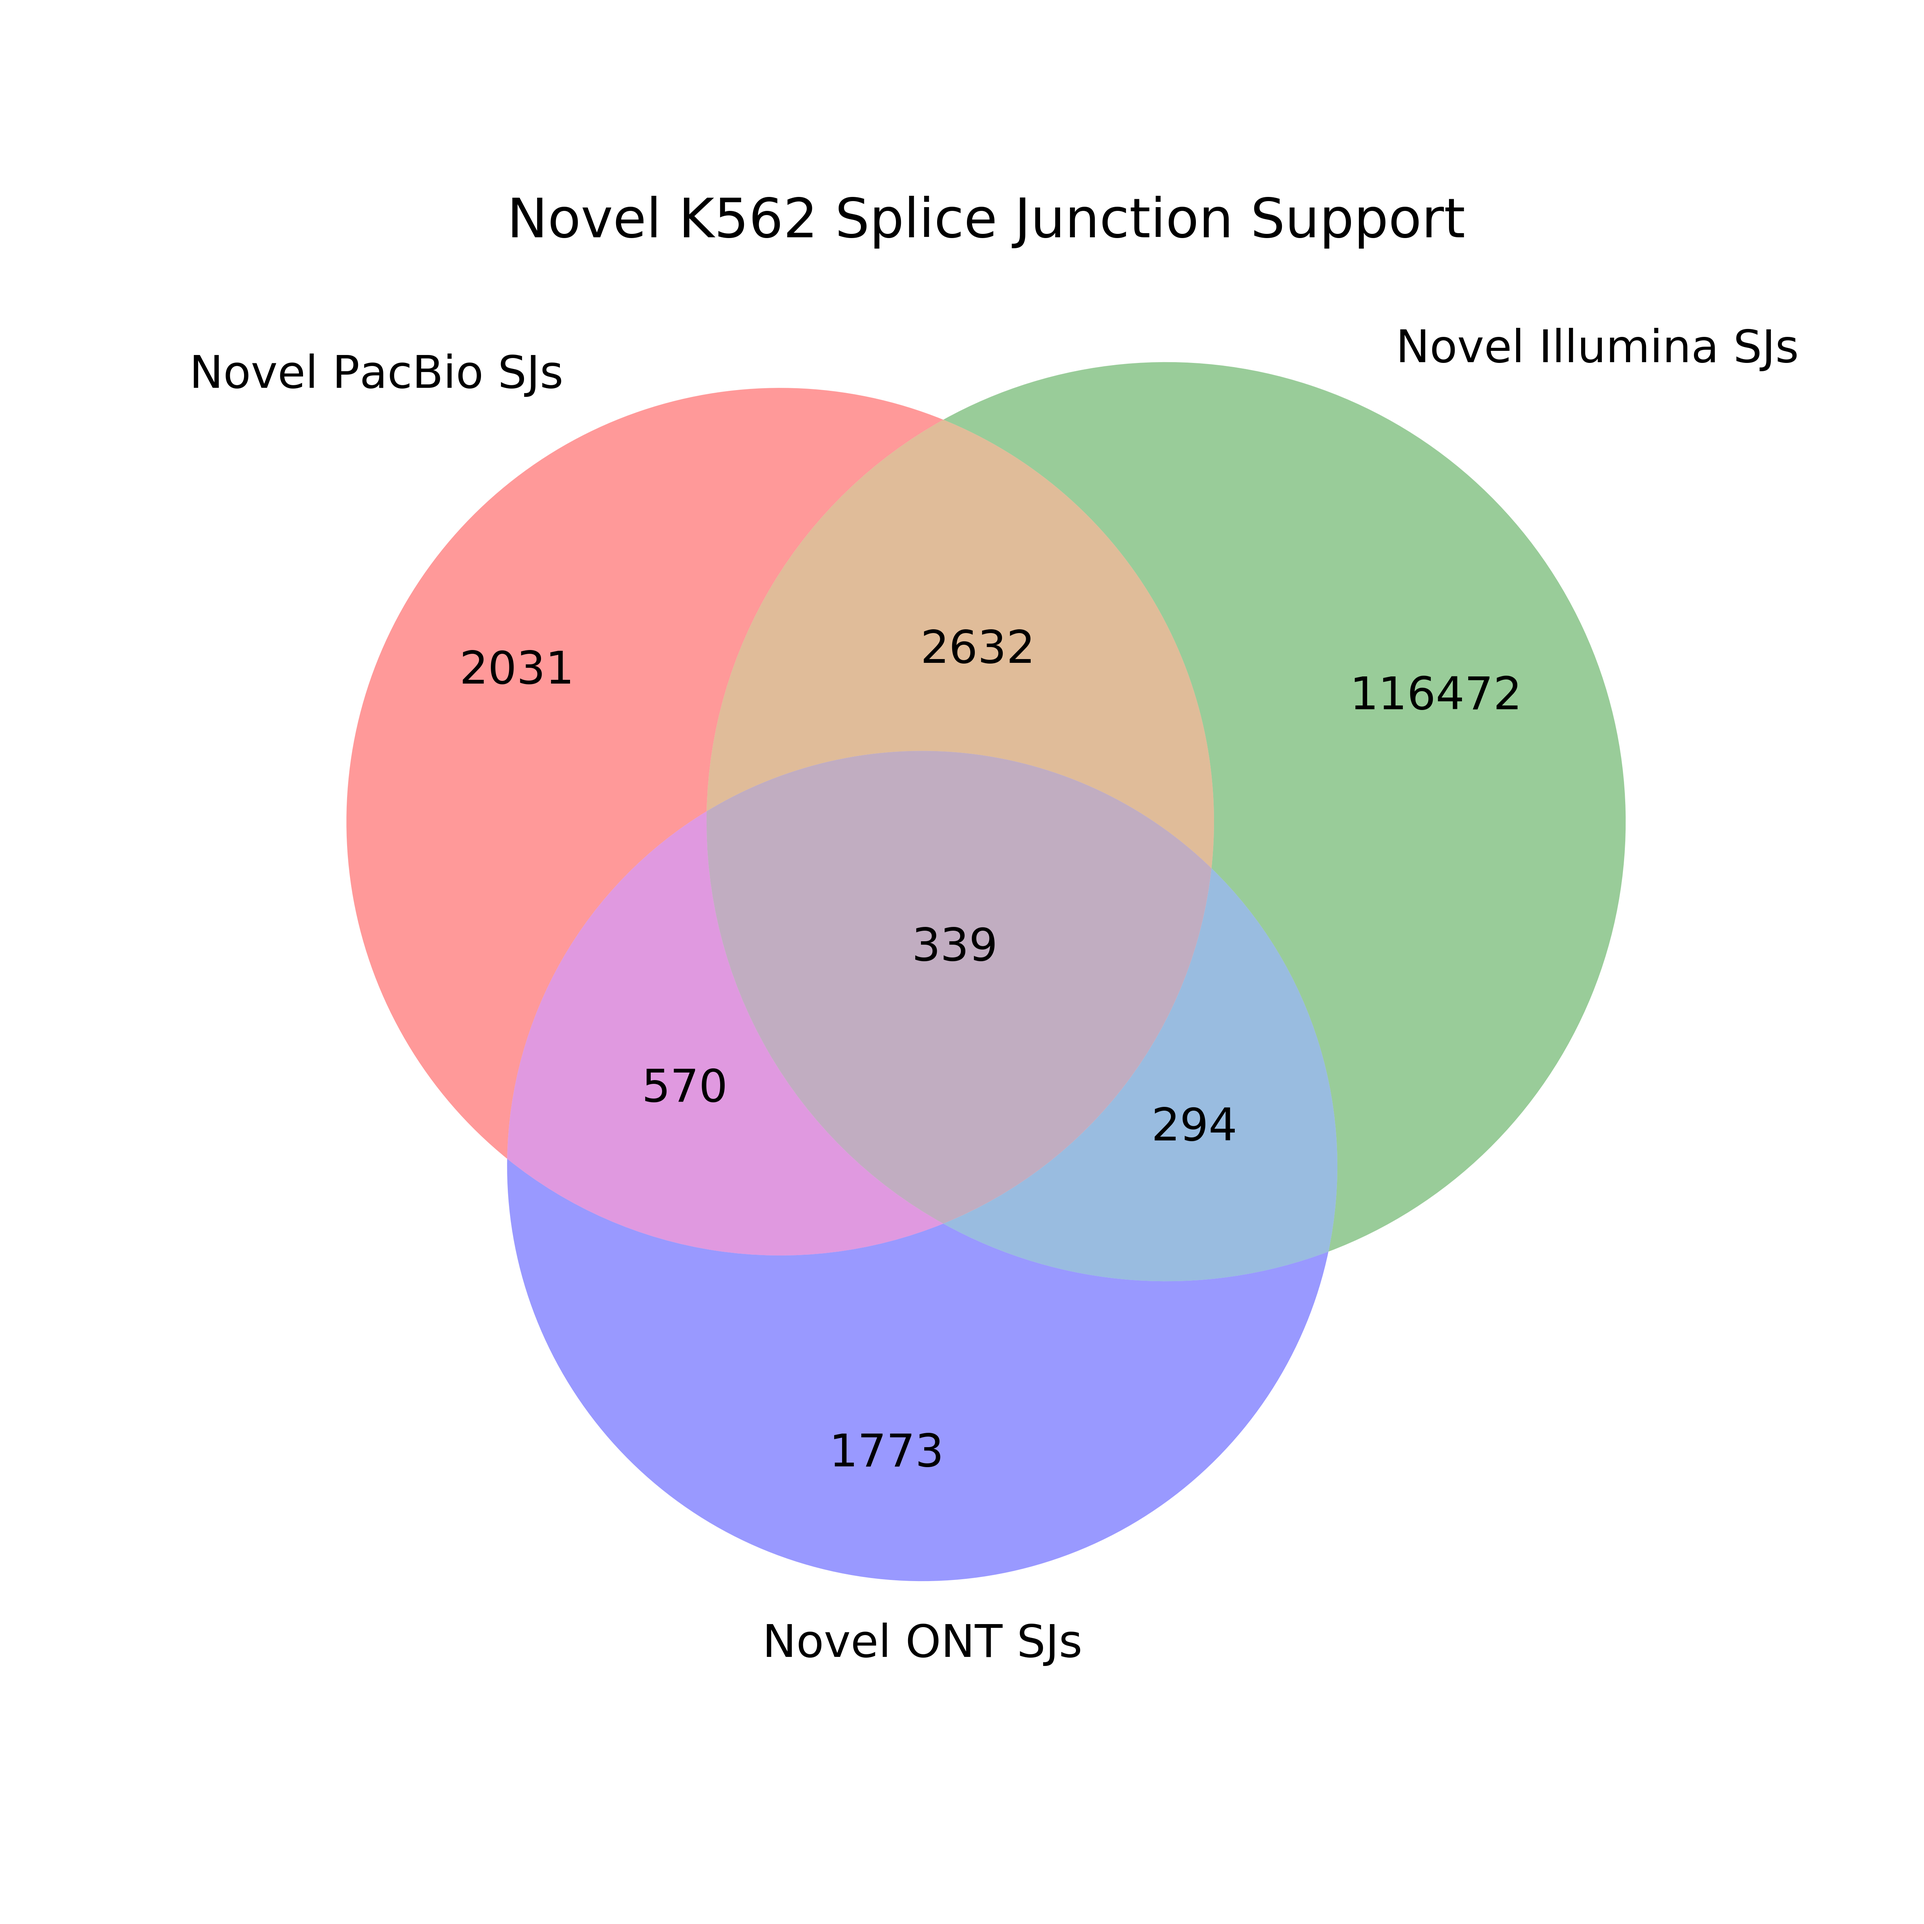
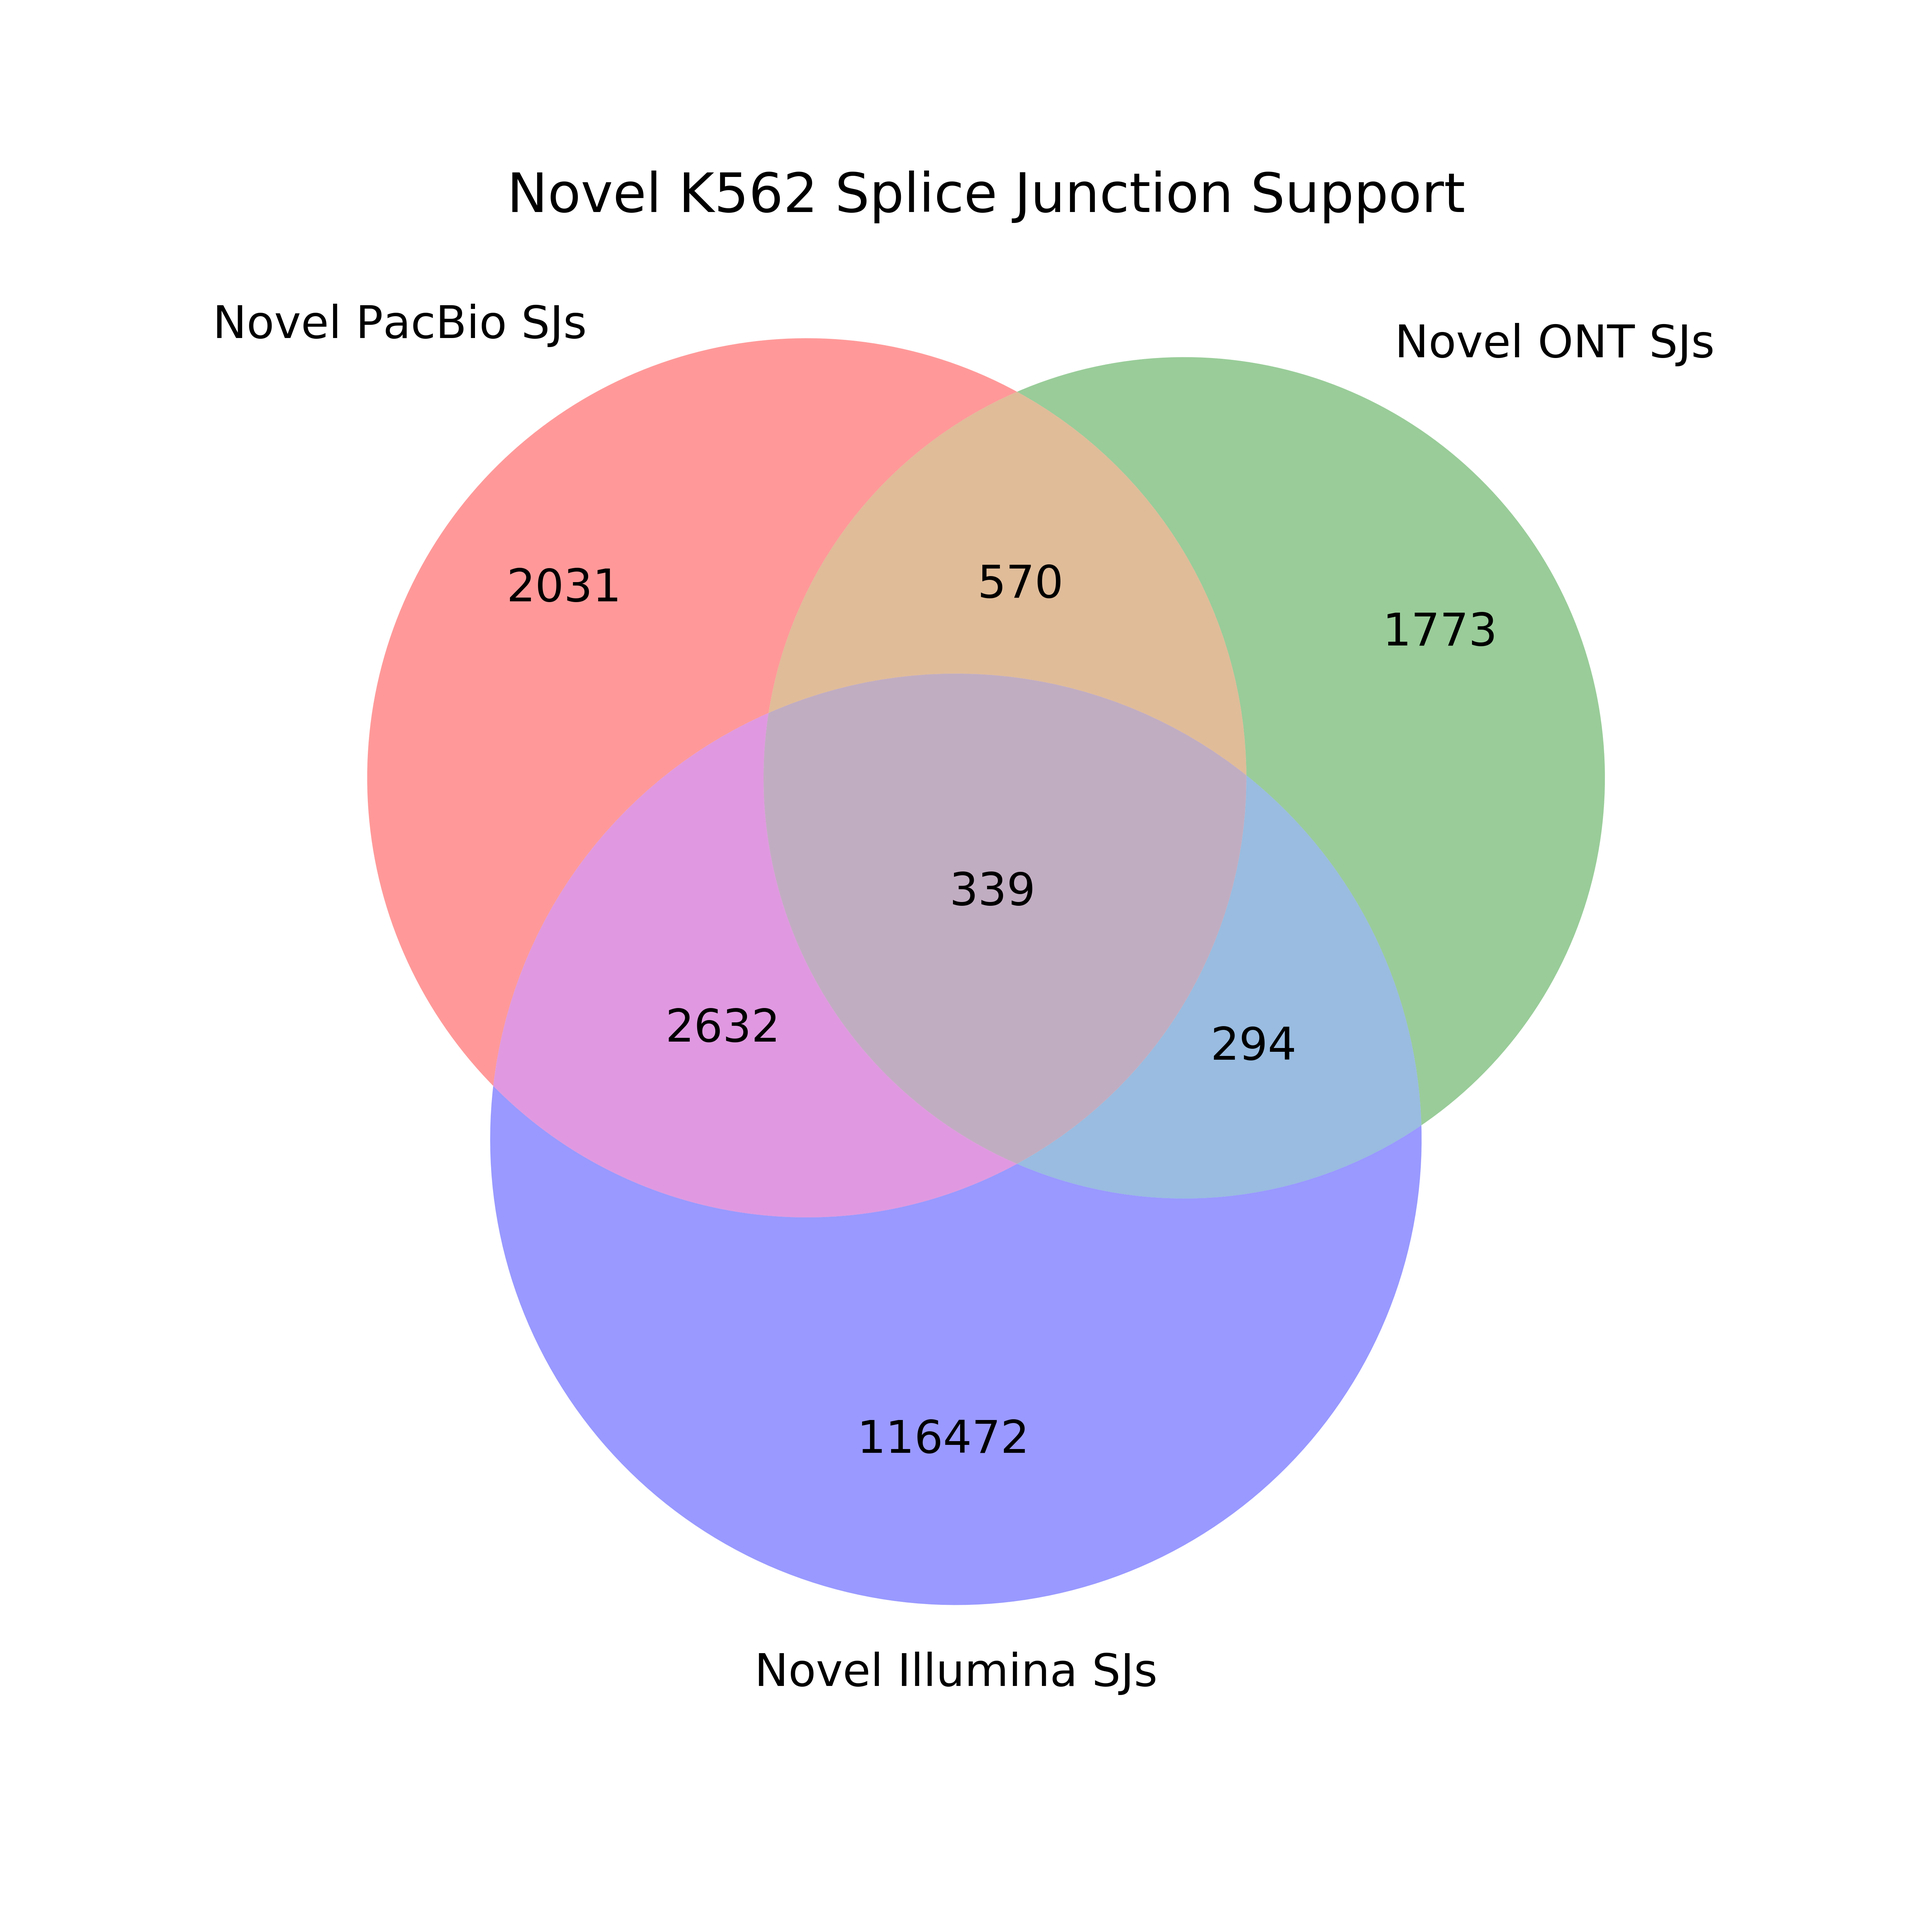
changed order of technologies in venn diagram

diff --git a/analysis_scripts/compare_sjs/README.md b/analysis_scripts/compare_sjs/README.md
@@ -224,10 +224,10 @@ python compare_sjs_venn2.py \
 python compare_sjs_venn_new.py \
 	-sj_1 PacBio_GM12878_unsupported_sjs.tab \
 	-sj_1_name "Novel PacBio SJs" \
-	-sj_2 Illumina_GM12878_unsupported_sjs.tab \
-	-sj_2_name "Novel Illumina SJs" \
-	-sj_3 ONT_GM12878_unsupported_sjs.tab  \
-	-sj_3_name "Novel ONT SJs" \
+	-sj_3 Illumina_GM12878_unsupported_sjs.tab \
+	-sj_3_name "Novel Illumina SJs" \
+	-sj_2 ONT_GM12878_unsupported_sjs.tab  \
+	-sj_2_name "Novel ONT SJs" \
 	-sample "Novel GM12878" \
 	--log
 ```
@@ -311,10 +311,10 @@ python compare_sjs_venn2.py \
 python compare_sjs_venn_new.py \
 	-sj_1 PacBio_HepG2_unsupported_sjs.tab \
 	-sj_1_name "Novel PacBio SJs" \
-	-sj_2 Illumina_HepG2_unsupported_sjs.tab \
-	-sj_2_name "Novel Illumina SJs" \
-	-sj_3 ONT_HepG2_unsupported_sjs.tab  \
-	-sj_3_name "Novel ONT SJs" \
+	-sj_3 Illumina_HepG2_unsupported_sjs.tab \
+	-sj_3_name "Novel Illumina SJs" \
+	-sj_2 ONT_HepG2_unsupported_sjs.tab  \
+	-sj_2_name "Novel ONT SJs" \
 	-sample "Novel HepG2" \
 	--log
 
@@ -379,10 +379,10 @@ python compare_sjs_venn2.py \
 python compare_sjs_venn_new.py \
 	-sj_1 PacBio_K562_unsupported_sjs.tab \
 	-sj_1_name "Novel PacBio SJs" \
-	-sj_2 Illumina_K562_unsupported_sjs.tab \
-	-sj_2_name "Novel Illumina SJs" \
-	-sj_3 ONT_K562_unsupported_sjs.tab  \
-	-sj_3_name "Novel ONT SJs" \
+	-sj_3 Illumina_K562_unsupported_sjs.tab \
+	-sj_3_name "Novel Illumina SJs" \
+	-sj_2 ONT_K562_unsupported_sjs.tab  \
+	-sj_2_name "Novel ONT SJs" \
 	-sample "Novel K562" \
 	--log	
 ```
